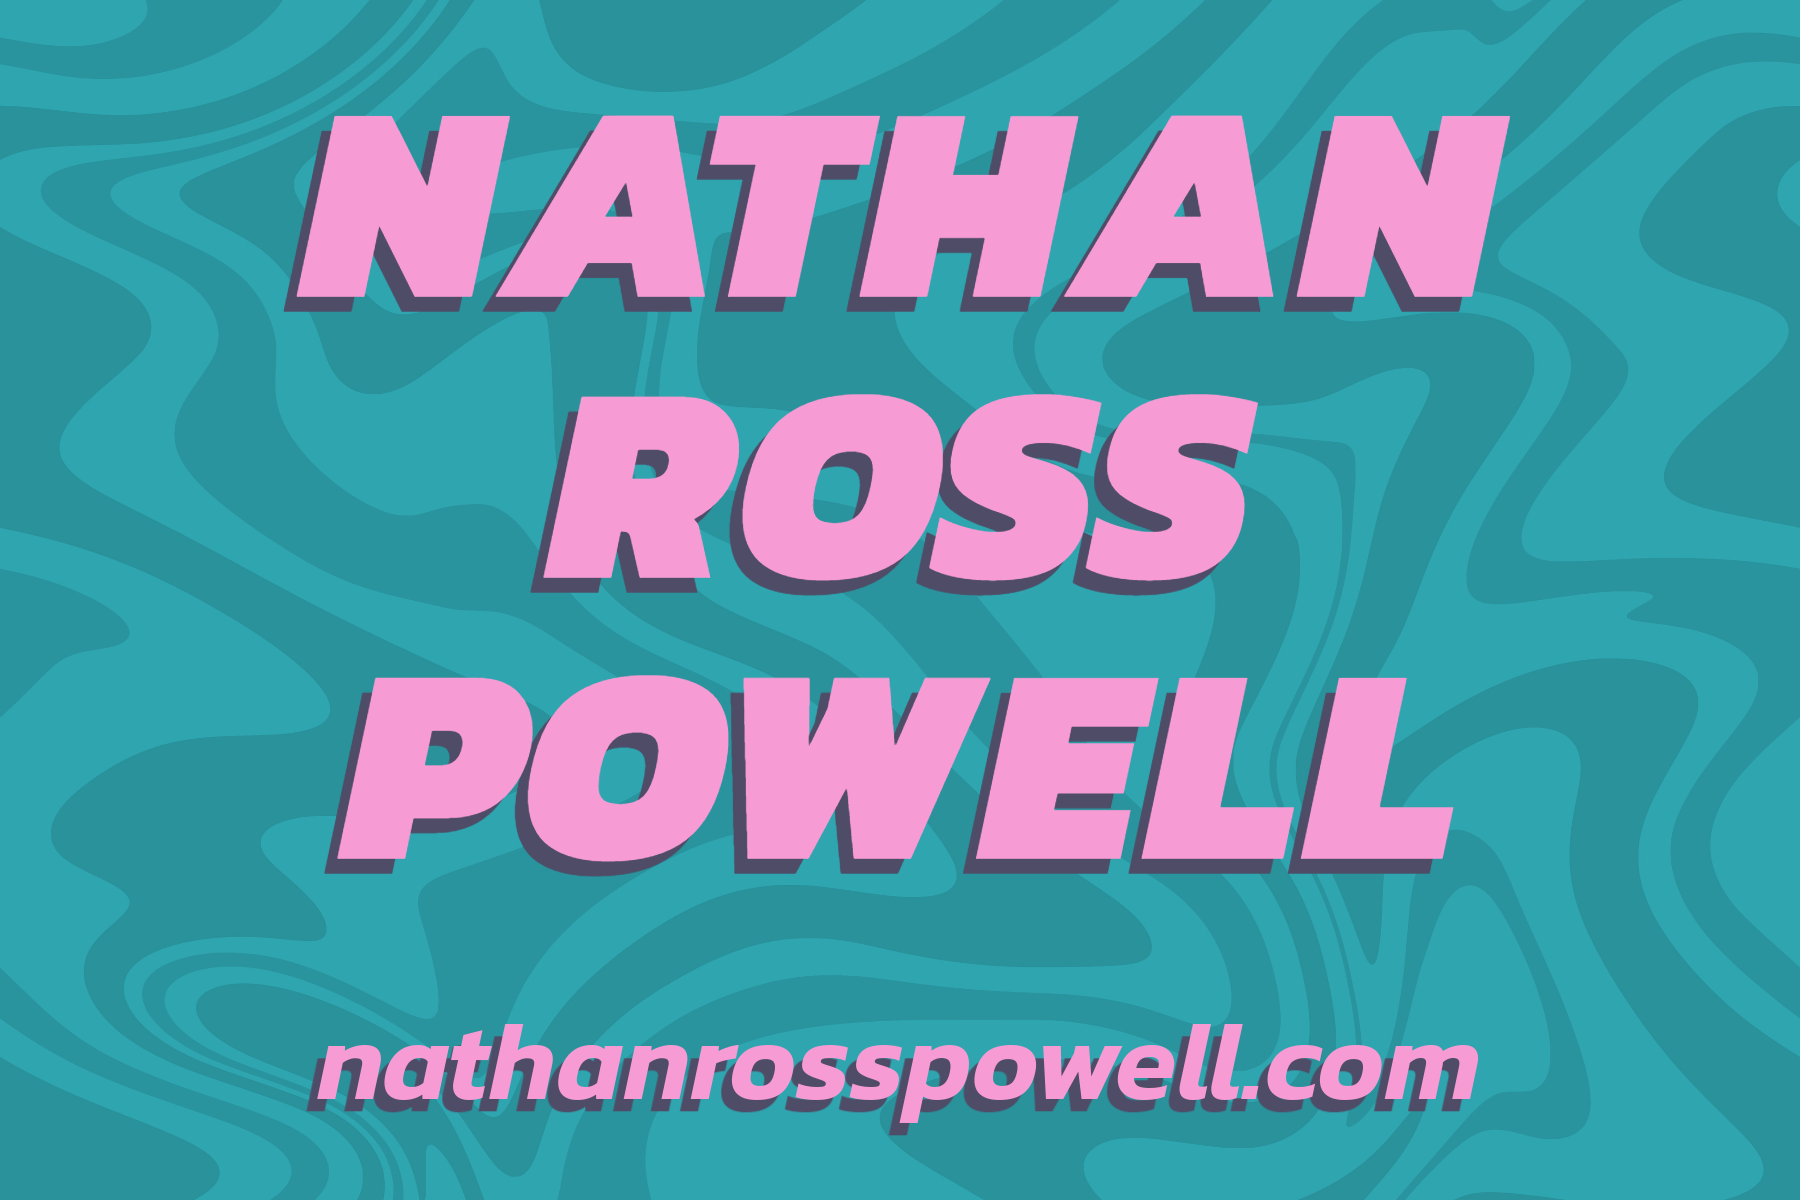
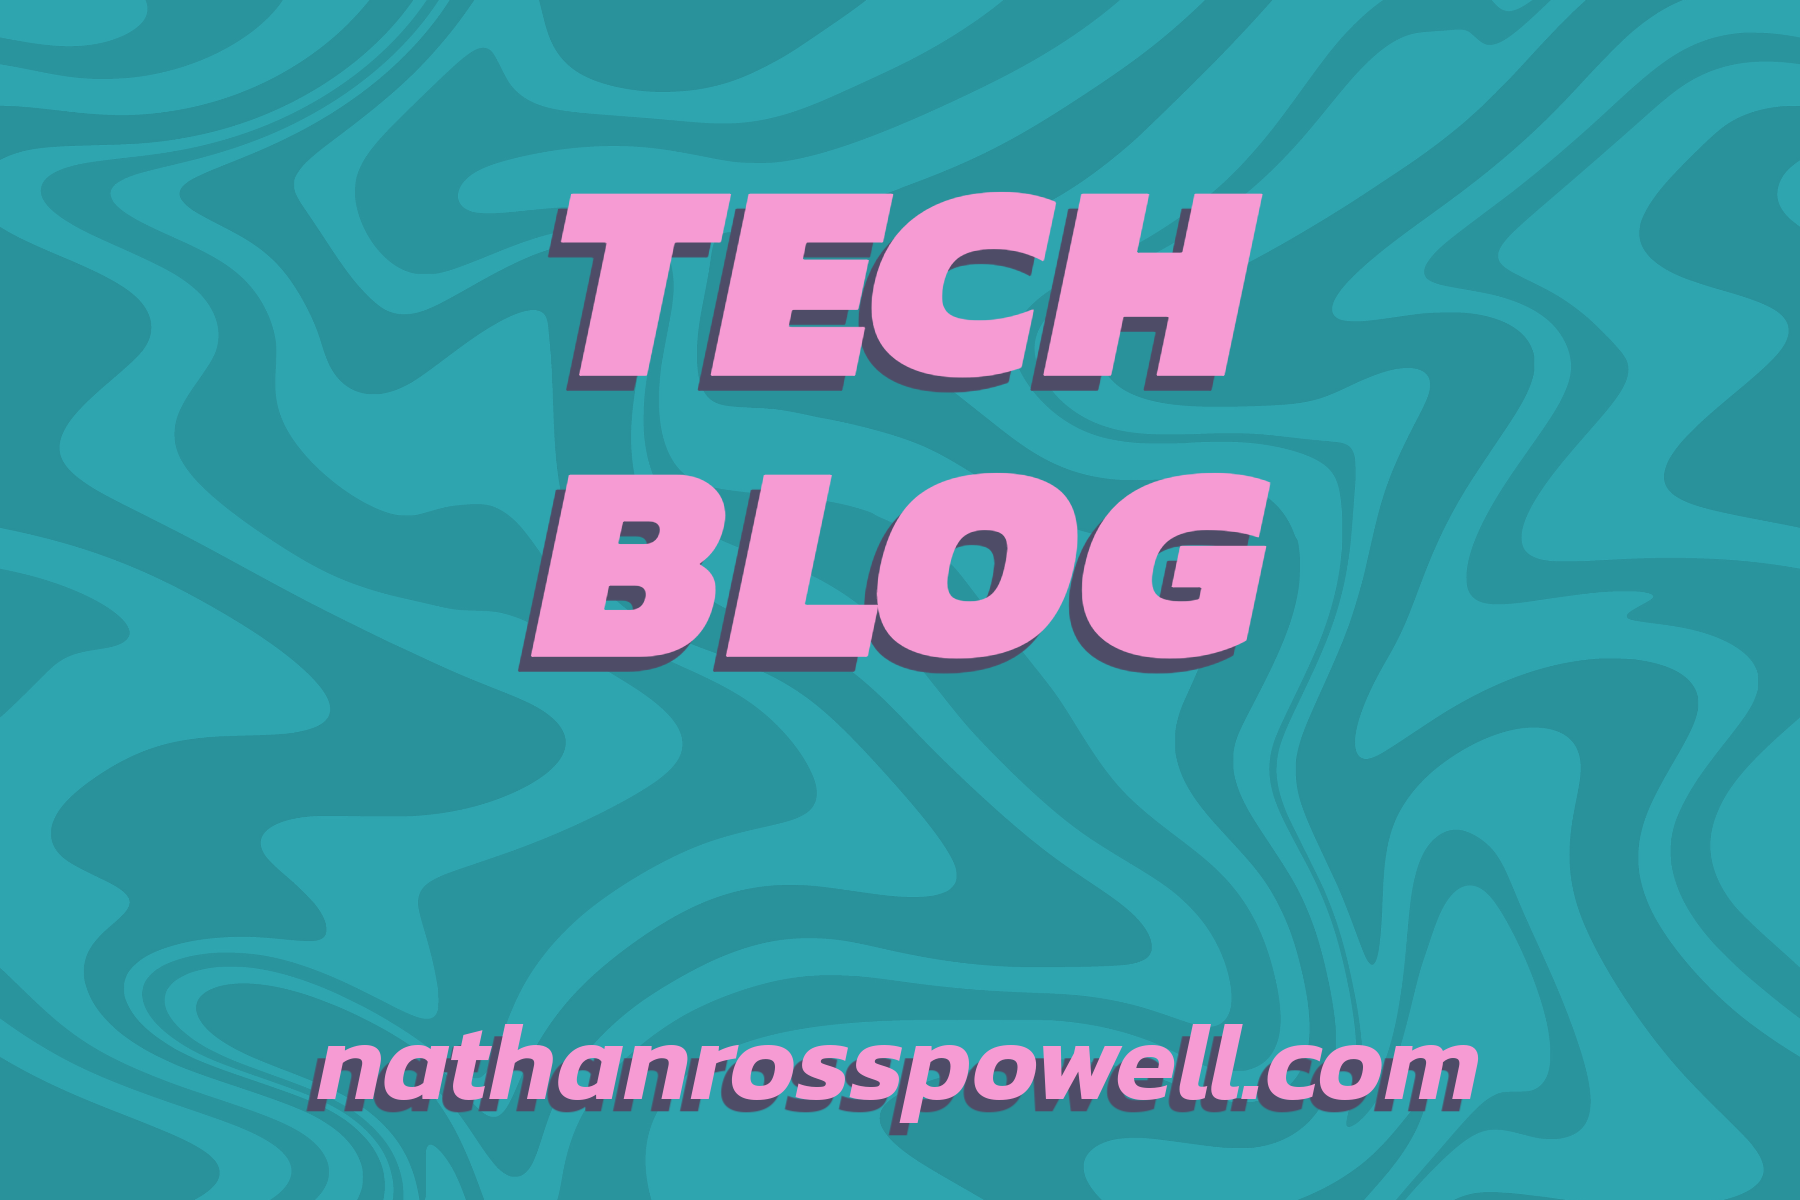
feat: meta detail update

Changed region(s): [[0.1556, 0.0925, 0.84, 0.74]]

diff --git a/src/templates/PageTemplate/PageTemplate.test.tsx b/src/templates/PageTemplate/PageTemplate.test.tsx
@@ -43,10 +43,10 @@ describe("PageTemplate", () => {
 
     expect(testUtils.getMeta("twitter:card")).toEqual("summary_large_image");
     expect(testUtils.getMeta("twitter:title")).toEqual(
-      "Humane Typography in the Digital Age - Blog by Nathan Ross Powell",
+      "Humane Typography in the Digital Age - Tech Blog - Nathan Ross Powell",
     );
     expect(testUtils.getMeta("og:title")).toEqual(
-      "Humane Typography in the Digital Age - Blog by Nathan Ross Powell",
+      "Humane Typography in the Digital Age - Tech Blog - Nathan Ross Powell",
     );
     expect(testUtils.getMeta("twitter:description")).toEqual(
       "Pellentesque odio nisi, euismod in, pharetra a, ultricies in, diam. Sed arcu.",

diff --git a/src/templates/PostTemplate/PostTemplate.test.tsx b/src/templates/PostTemplate/PostTemplate.test.tsx
@@ -43,10 +43,10 @@ describe("PostTemplate", () => {
 
     expect(testUtils.getMeta("twitter:card")).toEqual("summary_large_image");
     expect(testUtils.getMeta("twitter:title")).toEqual(
-      "Humane Typography in the Digital Age - Blog by Nathan Ross Powell",
+      "Humane Typography in the Digital Age - Tech Blog - Nathan Ross Powell",
     );
     expect(testUtils.getMeta("og:title")).toEqual(
-      "Humane Typography in the Digital Age - Blog by Nathan Ross Powell",
+      "Humane Typography in the Digital Age - Tech Blog - Nathan Ross Powell",
     );
     expect(testUtils.getMeta("description")).toEqual(
       "Pellentesque odio nisi, euismod in, pharetra a, ultricies in, diam. Sed arcu.",

diff --git a/src/templates/CategoryTemplate/CategoryTemplate.test.tsx b/src/templates/CategoryTemplate/CategoryTemplate.test.tsx
@@ -38,10 +38,10 @@ describe("CategoryTemplate", () => {
 
     expect(testUtils.getMeta("twitter:card")).toEqual("summary_large_image");
     expect(testUtils.getMeta("og:title")).toEqual(
-      "Typography - Page 2 - Blog by Nathan Ross Powell",
+      "Typography - Page 2 - Tech Blog - Nathan Ross Powell",
     );
     expect(testUtils.getMeta("twitter:title")).toEqual(
-      "Typography - Page 2 - Blog by Nathan Ross Powell",
+      "Typography - Page 2 - Tech Blog - Nathan Ross Powell",
     );
     expect(testUtils.getMeta("twitter:description")).toEqual(
       "Pellentesque odio nisi, euismod in, pharetra a, ultricies in, diam. Sed arcu.",

diff --git a/src/templates/TagTemplate/TagTemplate.test.tsx b/src/templates/TagTemplate/TagTemplate.test.tsx
@@ -38,10 +38,10 @@ describe("TagTemplate", () => {
 
     expect(testUtils.getMeta("twitter:card")).toEqual("summary_large_image");
     expect(testUtils.getMeta("twitter:title")).toEqual(
-      "Typography - Page 2 - Blog by Nathan Ross Powell",
+      "Typography - Page 2 - Tech Blog - Nathan Ross Powell",
     );
     expect(testUtils.getMeta("og:title")).toEqual(
-      "Typography - Page 2 - Blog by Nathan Ross Powell",
+      "Typography - Page 2 - Tech Blog - Nathan Ross Powell",
     );
     expect(testUtils.getMeta("description")).toEqual(
       "Pellentesque odio nisi, euismod in, pharetra a, ultricies in, diam. Sed arcu.",

diff --git a/src/templates/IndexTemplate/IndexTemplate.test.tsx b/src/templates/IndexTemplate/IndexTemplate.test.tsx
@@ -53,10 +53,10 @@ describe("IndexTemplate", () => {
 
     expect(testUtils.getMeta("twitter:card")).toEqual("summary_large_image");
     expect(testUtils.getMeta("twitter:title")).toEqual(
-      "Posts - Page 2 - Blog by Nathan Ross Powell",
+      "Posts - Page 2 - Tech Blog - Nathan Ross Powell",
     );
     expect(testUtils.getMeta("og:title")).toEqual(
-      "Posts - Page 2 - Blog by Nathan Ross Powell",
+      "Posts - Page 2 - Tech Blog - Nathan Ross Powell",
     );
     expect(testUtils.getMeta("description")).toEqual(
       "Pellentesque odio nisi, euismod in, pharetra a, ultricies in, diam. Sed arcu.",

diff --git a/src/templates/TagsTemplate/TagsTemplate.test.tsx b/src/templates/TagsTemplate/TagsTemplate.test.tsx
@@ -32,9 +32,9 @@ describe("TagsTemplate", () => {
 
     expect(testUtils.getMeta("twitter:card")).toEqual("summary_large_image");
     expect(testUtils.getMeta("twitter:title")).toEqual(
-      "Tags - Blog by Nathan Ross Powell",
+      "Tags - Tech Blog - Nathan Ross Powell",
     );
-    expect(testUtils.getMeta("og:title")).toEqual("Tags - Blog by Nathan Ross Powell");
+    expect(testUtils.getMeta("og:title")).toEqual("Tags - Tech Blog - Nathan Ross Powell");
     expect(testUtils.getMeta("description")).toEqual(
       "Pellentesque odio nisi, euismod in, pharetra a, ultricies in, diam. Sed arcu.",
     );

diff --git a/src/templates/CategoriesTemplate/CategoriesTemplate.test.tsx b/src/templates/CategoriesTemplate/CategoriesTemplate.test.tsx
@@ -33,10 +33,10 @@ describe("CategoriesTemplate", () => {
 
     expect(testUtils.getMeta("twitter:card")).toEqual("summary_large_image");
     expect(testUtils.getMeta("twitter:title")).toEqual(
-      "Categories - Blog by Nathan Ross Powell",
+      "Categories - Tech Blog - Nathan Ross Powell",
     );
     expect(testUtils.getMeta("og:title")).toEqual(
-      "Categories - Blog by Nathan Ross Powell",
+      "Categories - Tech Blog - Nathan Ross Powell",
     );
     expect(testUtils.getMeta("description")).toEqual(
       "Pellentesque odio nisi, euismod in, pharetra a, ultricies in, diam. Sed arcu.",

diff --git a/src/templates/NotFoundTemplate/NotFoundTemplate.test.tsx b/src/templates/NotFoundTemplate/NotFoundTemplate.test.tsx
@@ -31,10 +31,10 @@ describe("NotFoundTemplate", () => {
 
     expect(testUtils.getMeta("twitter:card")).toEqual("summary_large_image");
     expect(testUtils.getMeta("twitter:title")).toEqual(
-      "Not Found - Blog by Nathan Ross Powell",
+      "Not Found - Tech Blog - Nathan Ross Powell",
     );
     expect(testUtils.getMeta("og:title")).toEqual(
-      "Not Found - Blog by Nathan Ross Powell",
+      "Not Found - Tech Blog - Nathan Ross Powell",
     );
     expect(testUtils.getMeta("description")).toEqual(
       "Pellentesque odio nisi, euismod in, pharetra a, ultricies in, diam. Sed arcu.",

diff --git a/internal/testing/__mocks__/site-metadata.ts b/internal/testing/__mocks__/site-metadata.ts
@@ -5,7 +5,7 @@ export default {
   site: {
     siteMetadata: {
       url: "https://www.lumen.local",
-      title: "Blog by Nathan Ross Powell",
+      title: "Tech Blog - Nathan Ross Powell",
       subtitle:
         "Pellentesque odio nisi, euismod in, pharetra a, ultricies in, diam. Sed arcu.",
       copyright: "All rights reserved.",

diff --git a/content/pages/about/index.md b/content/pages/about/index.md
@@ -28,7 +28,7 @@ _A far more detailed list of is availeble on [LinkedIn][linkedin]_.
 
 ## Intro
 
-For some reason I still enjoy trying to solve all of the never-ending problems that arise when making video games.
+For some reason, I still enjoy trying to solve all of the never-ending problems that arise when making video games.
 
 
 
